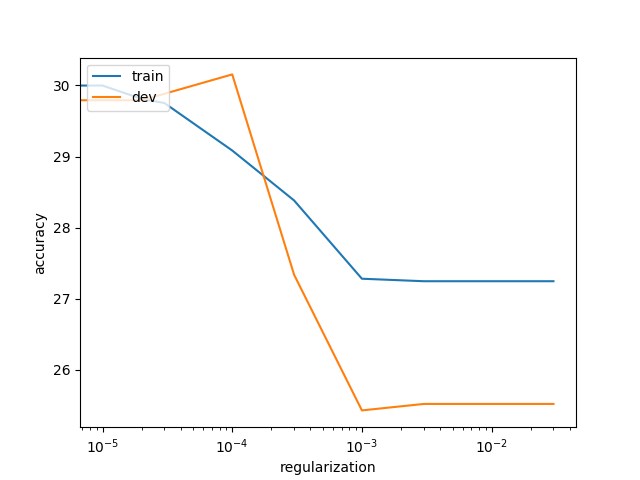
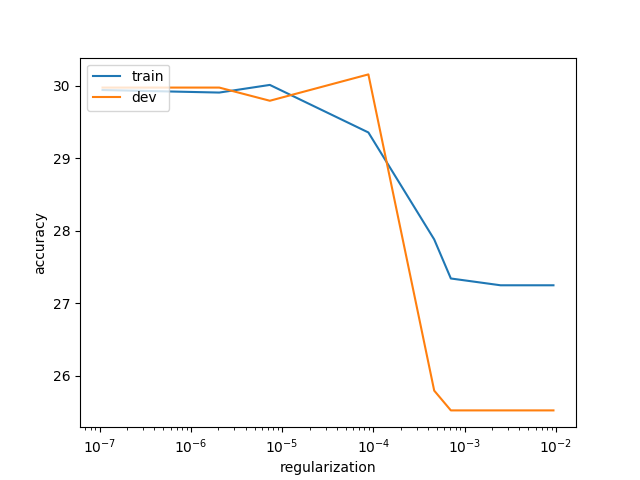
Update image and q4_sentiment

diff --git a/source/q4_sentiment.py b/source/q4_sentiment.py
@@ -62,16 +62,6 @@ REGULARIZATION = np.concatenate((reg_minus2,
                                  reg_minus4,
                                  reg_minus5,
                                  reg_minus6))
-# REGULARIZATION = [0.0,
-#                  0.00001,
-#                  0.00002,
-#                  0.00003,
-#                  0.0001,
-#                  0.0003,
-#                  0.001,
-#                  0.003,
-#                  0.03,
-#                  0.01]
 REGULARIZATION.sort()
 print("All the regularization params are = {}".format(REGULARIZATION))
 # ## END YOUR CODE
